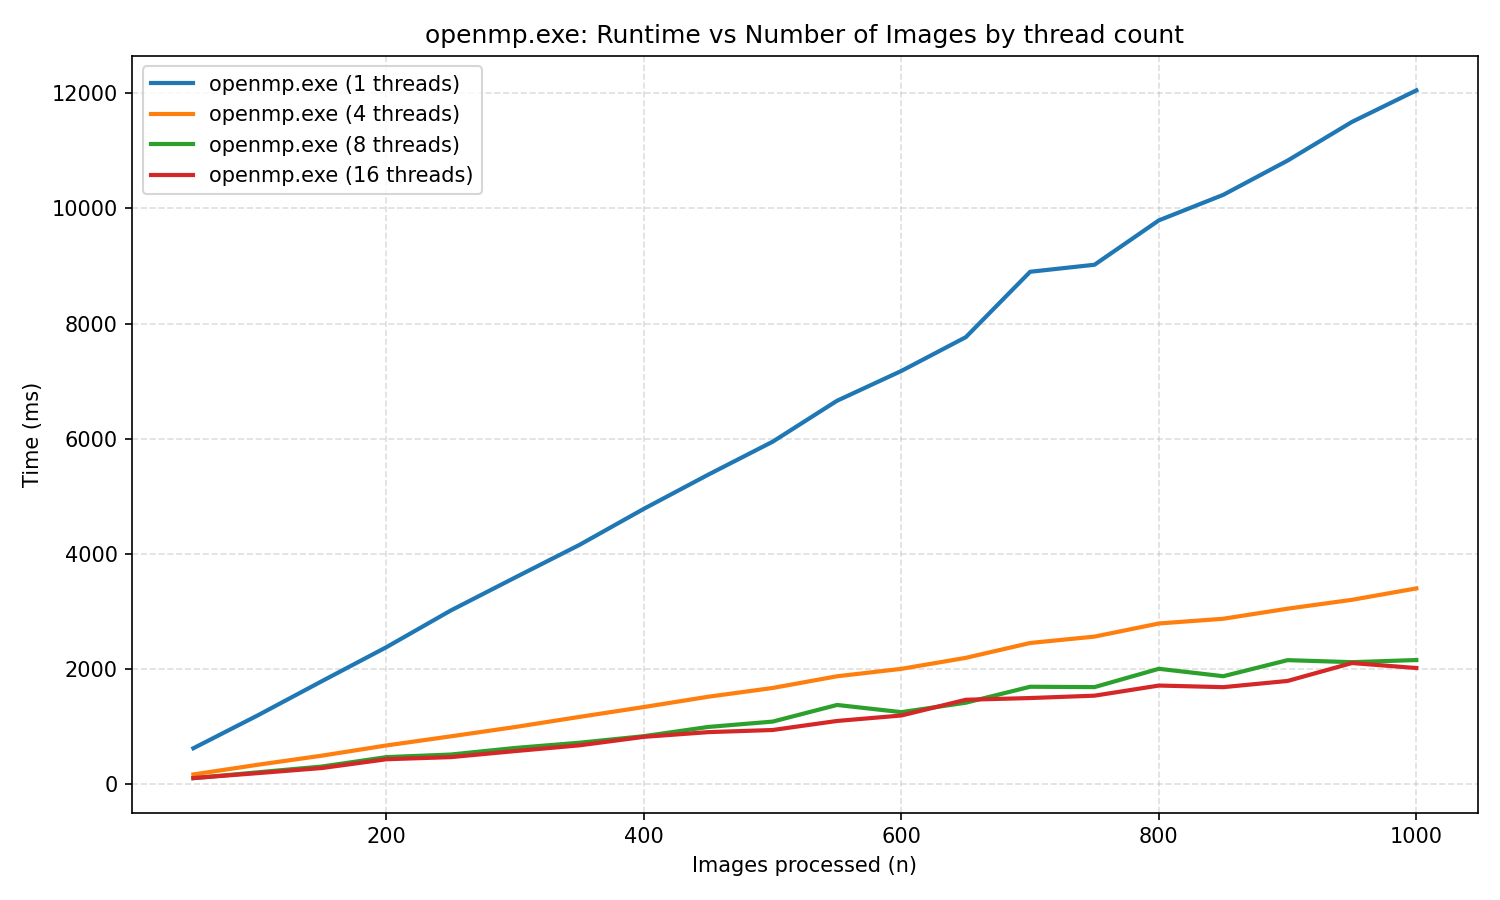
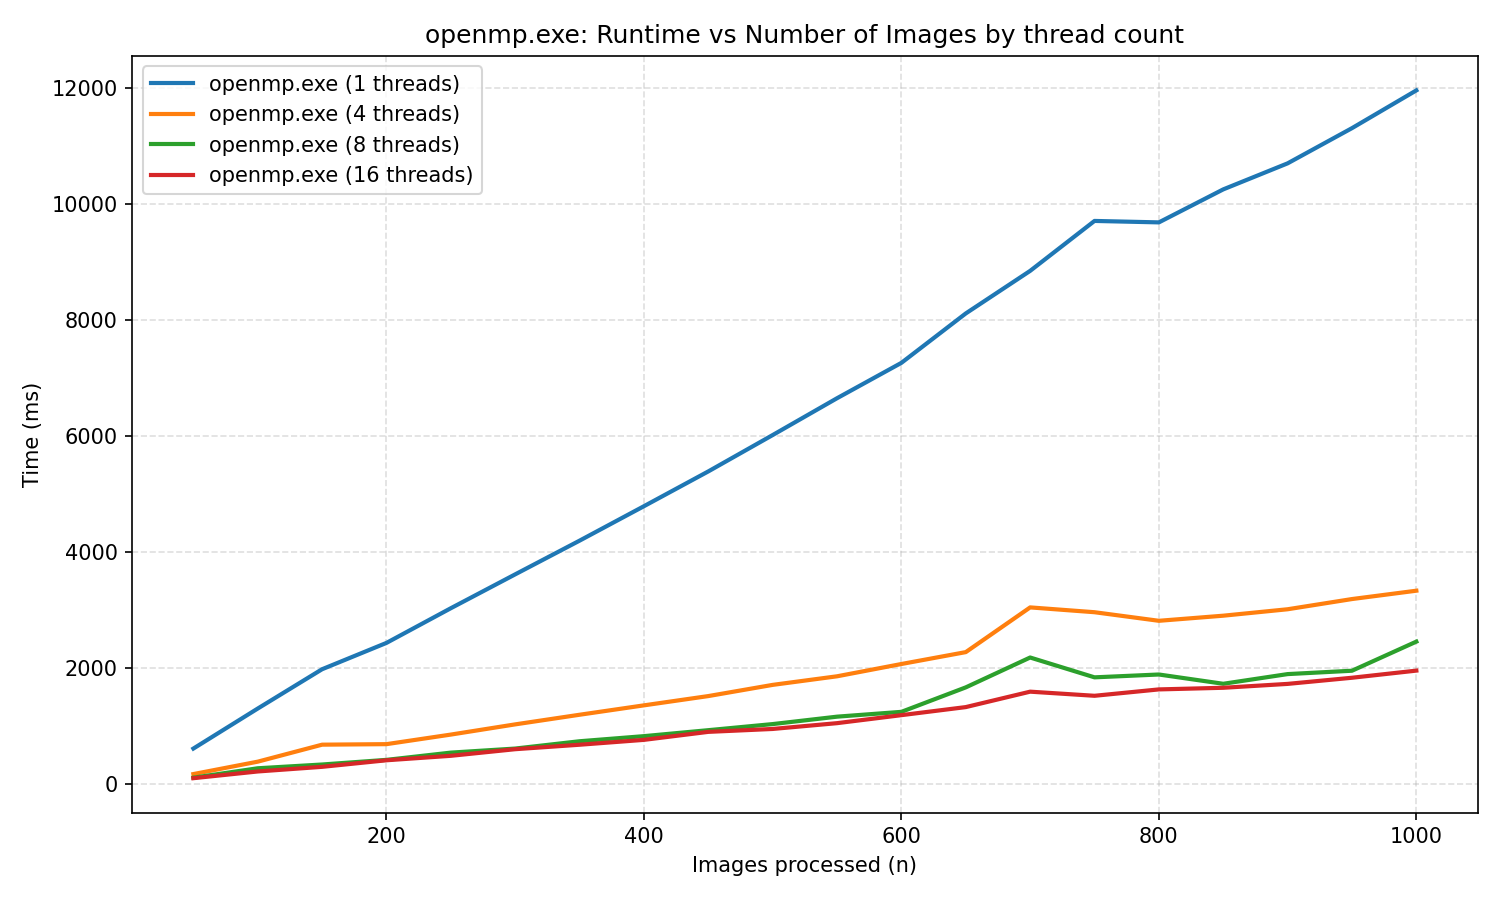
v2: Added speedup comparison for threads and openMP

diff --git a/benchmark_plot_C.py b/benchmark_plot_C.py
@@ -338,6 +338,72 @@ def main():
         plt.savefig(png_speed_path, dpi=150)
         print(f"Saved speedup plot: {png_speed_path}")
 
+    # Speedup graph for threads.exe (baseline: THREADS=1)
+    if plt is not None and not args.skip_threads:
+        # Build baseline map from THREADS=1 runs
+        baseline_thr: Dict[int, Optional[float]] = {n: None for n in counts}
+        for n in counts:
+            for (tc, ms) in results_threads.get(n, []):
+                if tc == 1:
+                    baseline_thr[n] = ms
+                    break
+
+        # Save speedup CSV for threads.exe
+        csv_thr_speed_path = (workspace / "plots/v2_C_speedup_threads_vs1.csv").resolve()
+        ensure_plots_dir(csv_thr_speed_path)
+        with open(csv_thr_speed_path, "w", newline="", encoding="utf-8") as f:
+            f.write("count,baseline_ms," + ",".join([f"threads_{tc}_speedup" for tc in thread_counts if tc != 1]) + "\n")
+            for n in counts:
+                b = baseline_thr.get(n)
+                row = [str(n), (f"{float(b):.4f}" if b is not None else "")]
+                vals = []
+                for tc in thread_counts:
+                    if tc == 1:
+                        continue
+                    ms = None
+                    for (tcc, val) in results_threads.get(n, []):
+                        if tcc == tc:
+                            ms = val
+                            break
+                    if b is not None and b > 0 and ms is not None and ms > 0:
+                        vals.append(f"{float(b)/float(ms):.4f}")
+                    else:
+                        vals.append("")
+                row.extend(vals)
+                f.write(",".join(row) + "\n")
+        print(f"Saved threads speedup CSV: {csv_thr_speed_path}")
+
+        # Plot threads.exe speedup vs 1 thread baseline
+        import math
+        plt.figure(figsize=(10, 6))
+        for tc in thread_counts:
+            if tc == 1:
+                continue
+            ys = []
+            for n in counts:
+                b = baseline_thr.get(n)
+                ms = None
+                for (tcc, val) in results_threads.get(n, []):
+                    if tcc == tc:
+                        ms = val
+                        break
+                if b is not None and b > 0 and ms is not None and ms > 0:
+                    ys.append(float(b) / float(ms))
+                else:
+                    ys.append(math.nan)
+            plt.plot(counts, ys, label=f"threads.exe speedup vs 1 thread ({tc})", linewidth=2)
+        plt.xlabel("Images processed (n)")
+        plt.ylabel("Speedup (×)")
+        plt.title("threads.exe Speedup vs 1 thread baseline")
+        plt.grid(True, linestyle="--", alpha=0.4)
+        plt.legend()
+        png_thr_speed = (workspace 
+                         / "plots/v2_C_speedup_threads_vs1.png").resolve()
+        ensure_plots_dir(png_thr_speed)
+        plt.tight_layout()
+        plt.savefig(png_thr_speed, dpi=150)
+        print(f"Saved speedup plot: {png_thr_speed}")
+
     # Optionally show interactively if running locally
     if os.environ.get("SHOW_PLOT", "0") == "1":
         plt.show()

diff --git a/REPORT_Performance.md b/REPORT_Performance.md
@@ -1,0 +1,70 @@
+# C++ Parallel Performance Report
+
+## Methodology
+
+- Images loaded from `input_images/`; outputs disabled to avoid I/O skew.
+- Benchmarks executed by `benchmark_plot_C.py` with counts from 50 to 1000 (step 50).
+- Parallelism controlled via environment:
+  - `threads.exe`: `THREADS={1,4,8,16}`
+  - `openmp.exe`: `OMP_NUM_THREADS={1,4,8,16}`
+- Each point is the average of `--repeats` runs (1 in these results). Timing reported is the total for all filters.
+- Build flags: `-O2`, `-std=c++17`; `openmp.exe` additionally `-fopenmp`.
+
+## Metrics
+
+- Speedup: $S(N) = \dfrac{T_{serial}}{T_{parallel}(N)}$ where $T_{serial}$ is the 1-thread baseline.
+- Efficiency: $E(N) = \dfrac{S(N)}{N}$ (fraction of ideal linear speedup).
+
+## Test Cases
+
+- Thread counts: 1, 4, 8, 16 for both paradigms (`std::thread` and OpenMP).
+- Image counts: 50..1000 (step 50). Tables below highlight 200, 600, and 1000 as representative.
+
+## C++ Performance Results
+
+### Execution Time Table (milliseconds)
+
+Serial baseline uses OpenMP with 1 thread (closest to a pure single-thread run). Corresponding `threads.exe` 1-thread times are similar but slightly higher; they are noted in parentheses.
+
+| Images |      Serial (OpenMP 1) | std::thread 4 | std::thread 8 | std::thread 16 | OpenMP 4 | OpenMP 8 | OpenMP 16 |
+| -----: | ---------------------: | ------------: | ------------: | -------------: | -------: | -------: | --------: |
+|    200 |   2427 (threads: 2682) |           835 |           806 |            902 |      681 |      410 |       403 |
+|    600 |   7256 (threads: 7812) |          2491 |          2045 |           2436 |     2063 |     1238 |      1181 |
+|   1000 | 11954 (threads: 12946) |          4144 |          3378 |           4023 |     3327 |     2449 |      1949 |
+
+Data source: `plots/v2_C_runtime_openmp_counts.csv` and `plots/v2_C_runtime_threads_counts.csv`.
+
+### Speedup Graphs
+
+- Threads baseline vs 1 thread: see `plots/v2_C_speedup_threads_vs1.png`.
+- OpenMP baseline vs 1 thread: see `plots/v2_C_speedup_openmp_vs1.png`.
+
+### Efficiency Analysis
+
+- OpenMP achieved higher speedups overall; at 1000 images, speedup ≈ 6.13× (16 threads) and ≈ 4.93× (8 threads), giving efficiencies of ~$E(16) \approx 0.38$ and ~$E(8) \approx 0.62$.
+- std::thread achieved ≈ 3.83× (8 threads) and ≈ 3.22× (16 threads) at 1000 images, with efficiencies ~$E(8) \approx 0.48$ and ~$E(16) \approx 0.20$. The 16-thread run is not the fastest due to overheads.
+- Likely causes of sub-linear scaling and 16-thread slowdowns:
+  - Synchronization and scheduling overhead (thread launch/join, work distribution).
+  - Memory bandwidth saturation and cache contention at higher core counts.
+  - Row-chunk partitioning in `threads.cpp` can cause load imbalance and more contention on shared memory.
+  - OS scheduling and NUMA effects; OpenMP’s runtime may bind threads and schedule loops more efficiently than manual `std::thread` partitioning.
+
+### Notes and Tuning Ideas
+
+- For `std::thread`:
+  - Increase chunk size (process more rows per thread) or use a work-stealing queue to reduce imbalance.
+  - Consider `std::vector<std::thread>::reserve(nt)` and reusing threads across images.
+  - Pin threads to cores using platform APIs to reduce migration.
+- For OpenMP:
+  - Try `schedule(static, chunk)` and environment `OMP_PROC_BIND=close`, `OMP_PLACES=cores`.
+- Verify 1-thread baselines are consistent; both serial paths include the same filter code but different drivers, hence small differences.
+
+## Reproduce
+
+- Build:
+  - `g++ -std=c++17 -O2 -I third_party/stb -I src threads.cpp -o threads.exe`
+  - `g++ -std=c++17 -O2 -fopenmp -I third_party/stb -I src openmp.cpp -o openmp.exe`
+- Run:
+  - `python benchmark_plot_C.py --thread-counts 1,4,8,16 --start 50 --end 1000 --step 50`
+- Outputs:
+  - CSVs and PNGs in `plots/` as referenced above.
